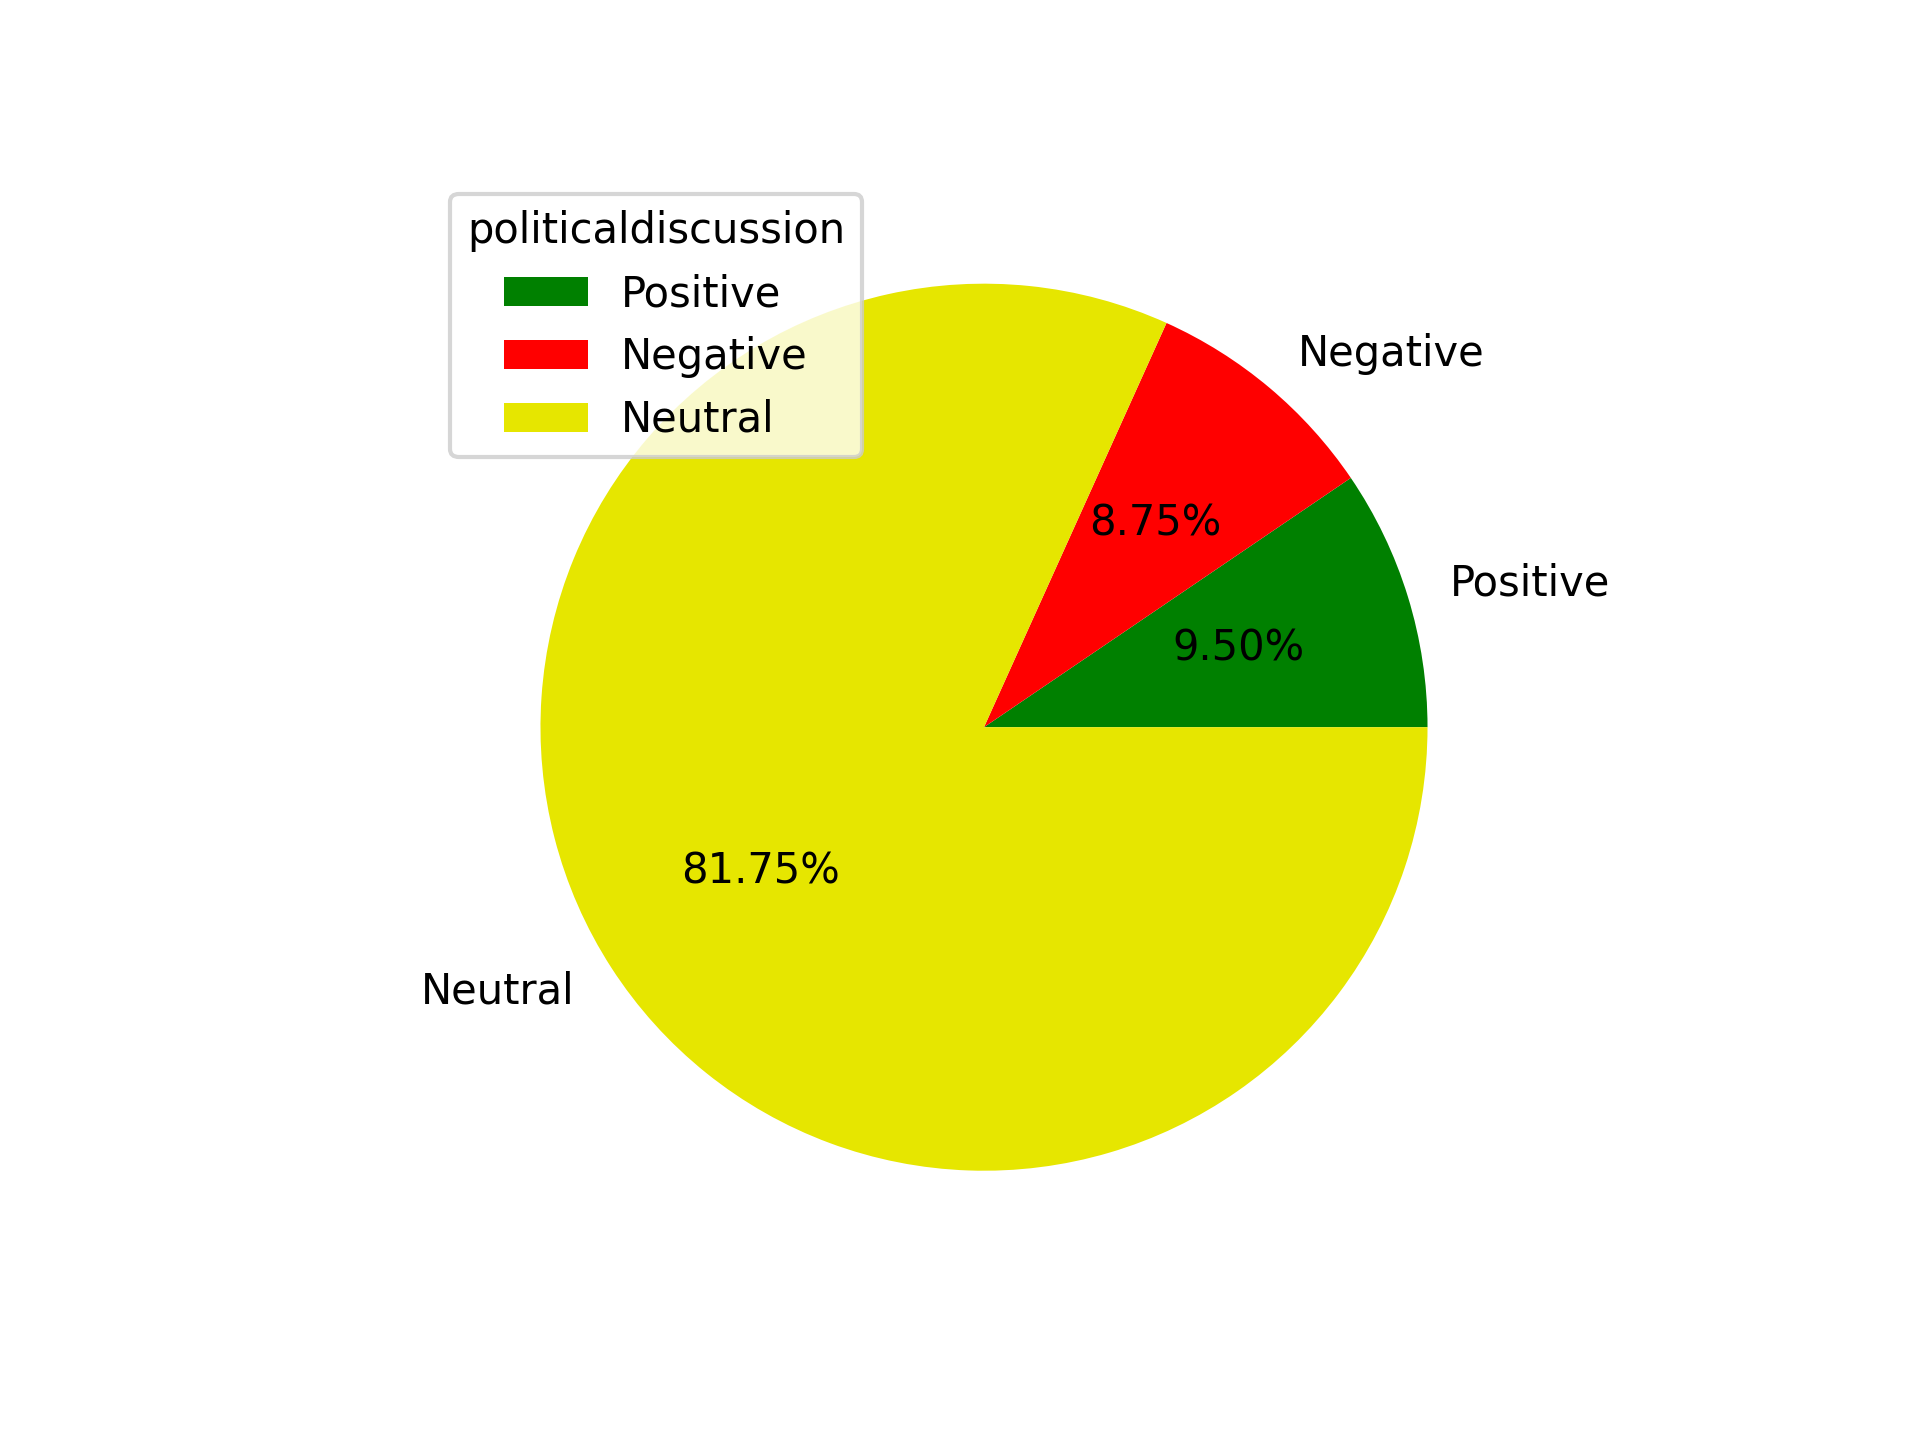
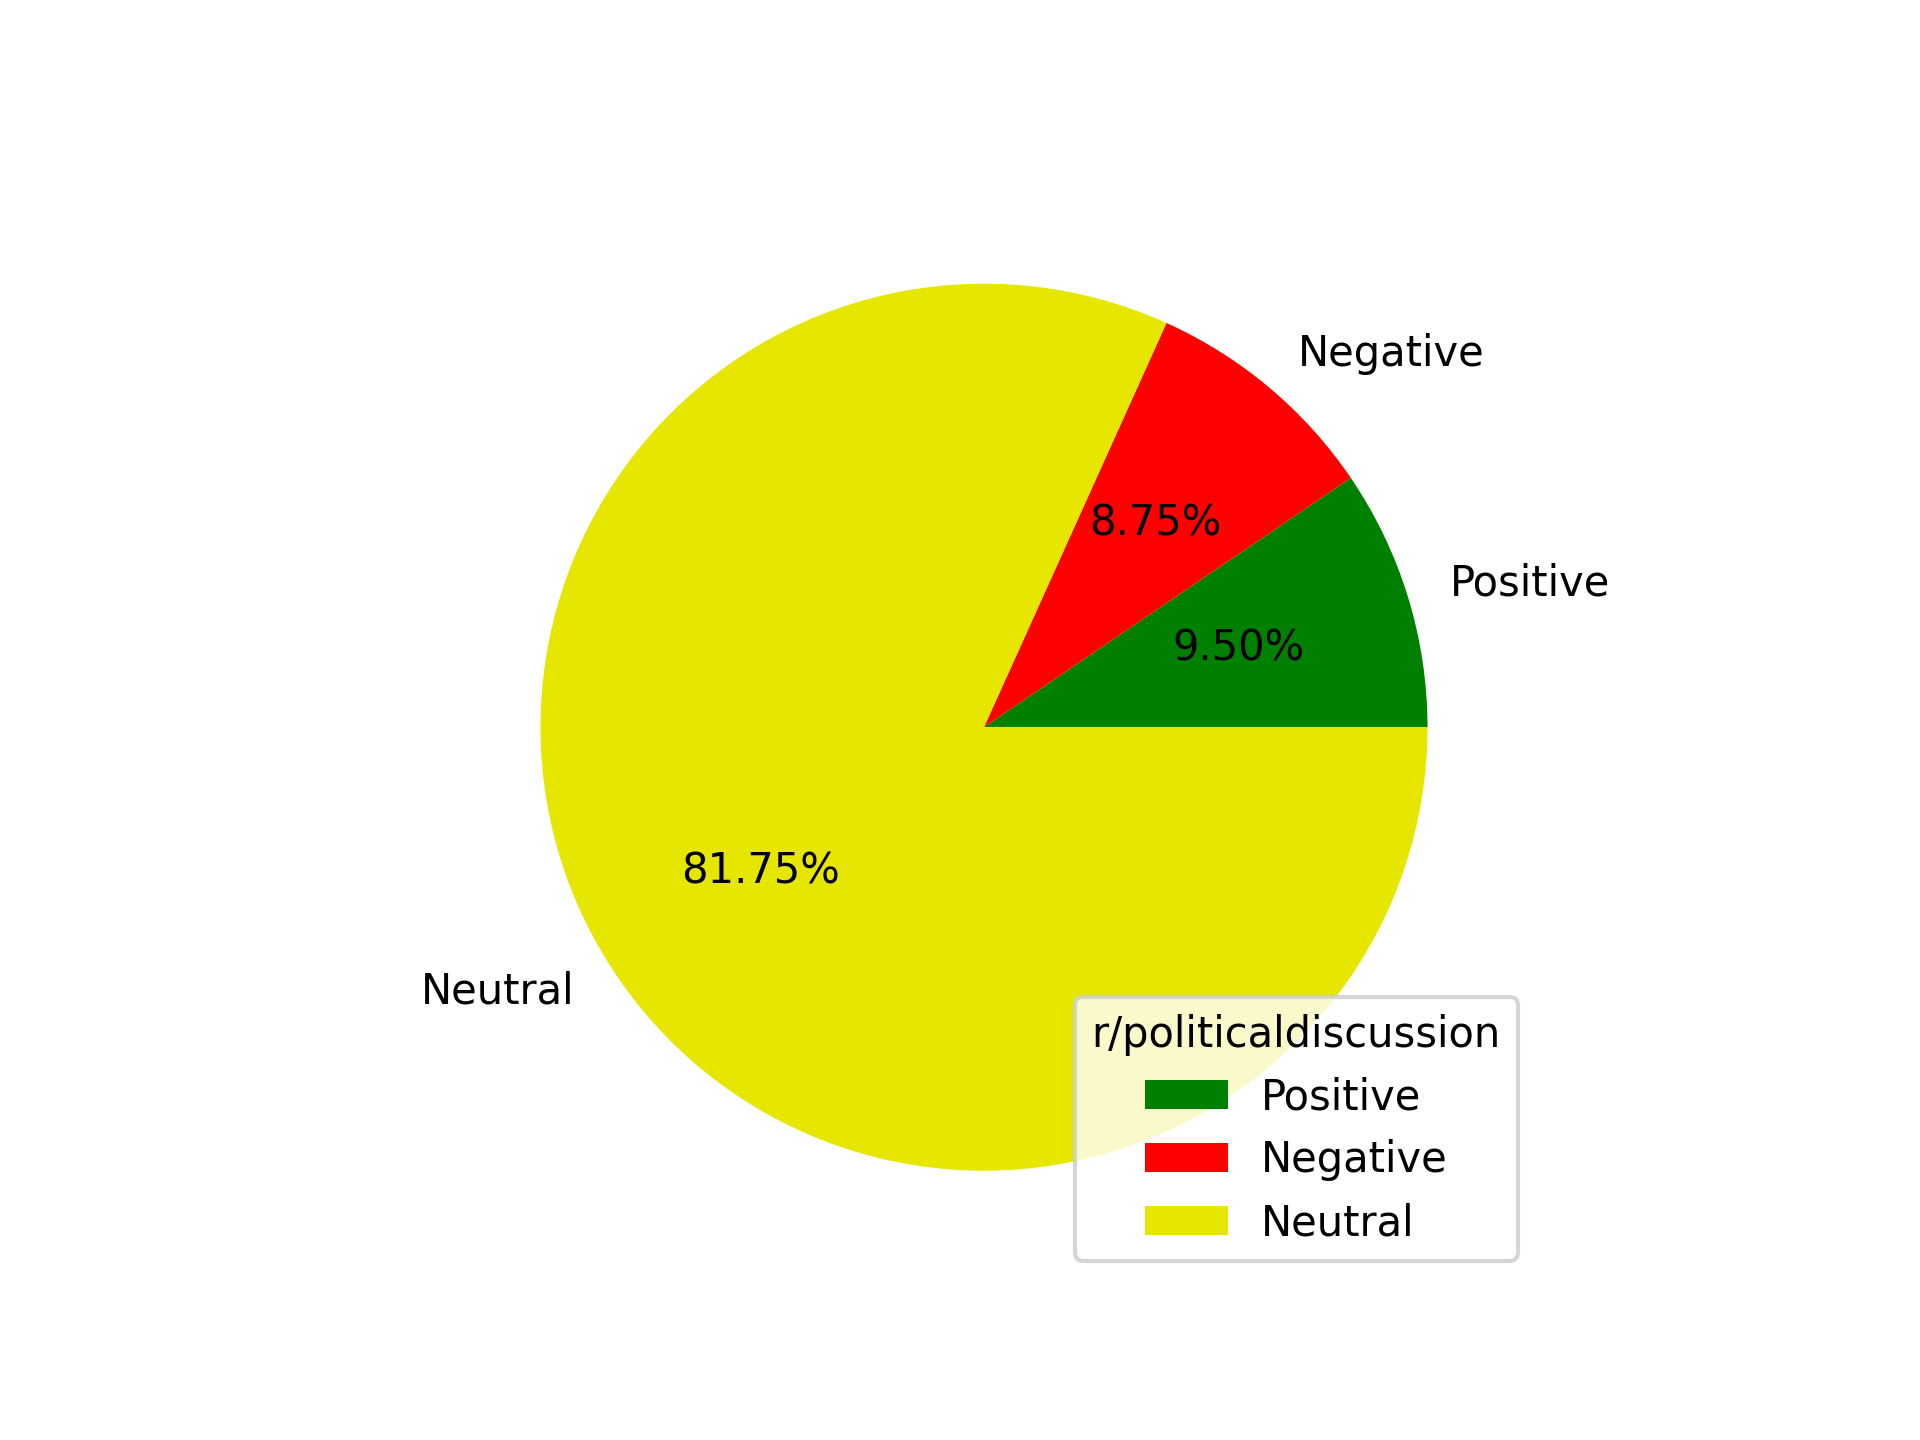
modified pie chart legend

Changed region(s): [[0.2188, 0.125, 0.4688, 0.3438], [0.5312, 0.6875, 0.7812, 0.875]]

diff --git a/charts.py b/charts.py
@@ -78,11 +78,11 @@ def makePieChart(file_array):
         labels = ["Positive", "Negative", "Neutral"]
         colors = ["Green", "Red", "#e6e600"]
         plt.pie(y, labels=labels, colors=colors, autopct="%.2f%%")
-        plt.legend(title=sub_name)
+        plt.legend(title="r/"+sub_name)
         plt.savefig('pie_charts/'+sub_name+".png", dpi=300)
         
 if __name__ == '__main__':
     combined_files = ["COMBINED_analysis/changemyview_analysis.json", "COMBINED_analysis/Conservative_analysis.json", "COMBINED_analysis/conspiracy_analysis.json", "COMBINED_analysis/democrats_analysis.json", "COMBINED_analysis/PoliticalDiscussion_analysis.json",  "COMBINED_analysis/politics_analysis.json", "COMBINED_analysis/TrueReddit_analysis.json"]
     comment_files = ["sentiment_analyses/changemyview_analysis.json", "sentiment_analyses/Conservative_analysis.json", "sentiment_analyses/conspiracy_analysis.json", "sentiment_analyses/democrats_analysis.json", "sentiment_analyses/PoliticalDiscussion_analysis.json", "sentiment_analyses/politics_analysis.json", "sentiment_analyses/TrueReddit_analysis.json"]
-    makeWordClouds(combined_files)
-    # makePieChart(comment_files)
+    # makeWordClouds(combined_files)
+    makePieChart(comment_files)
